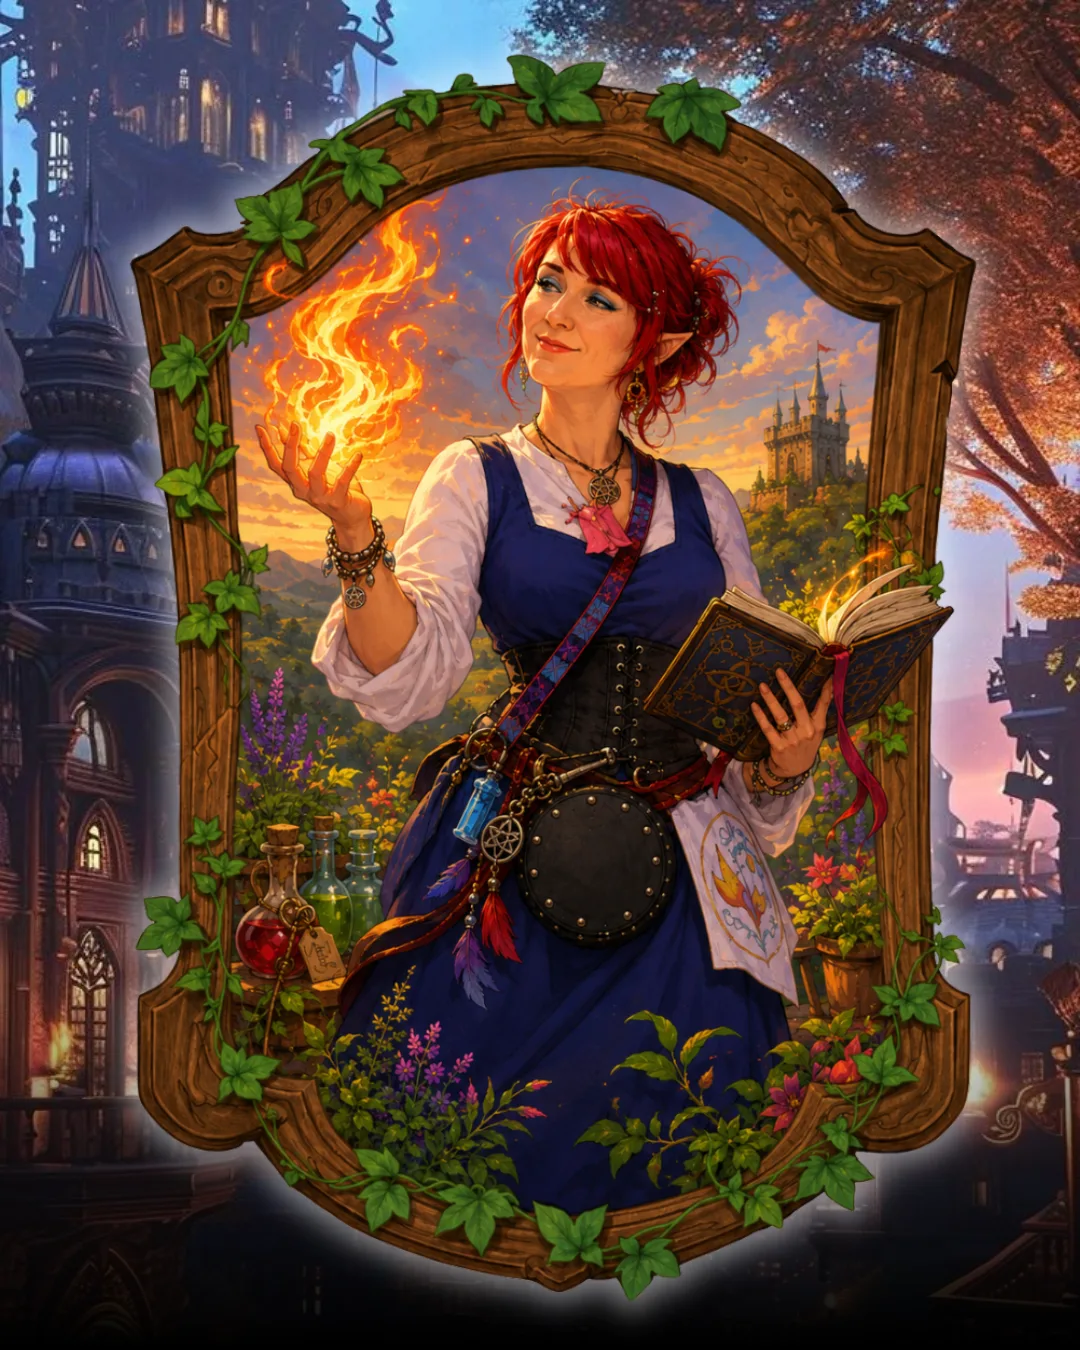
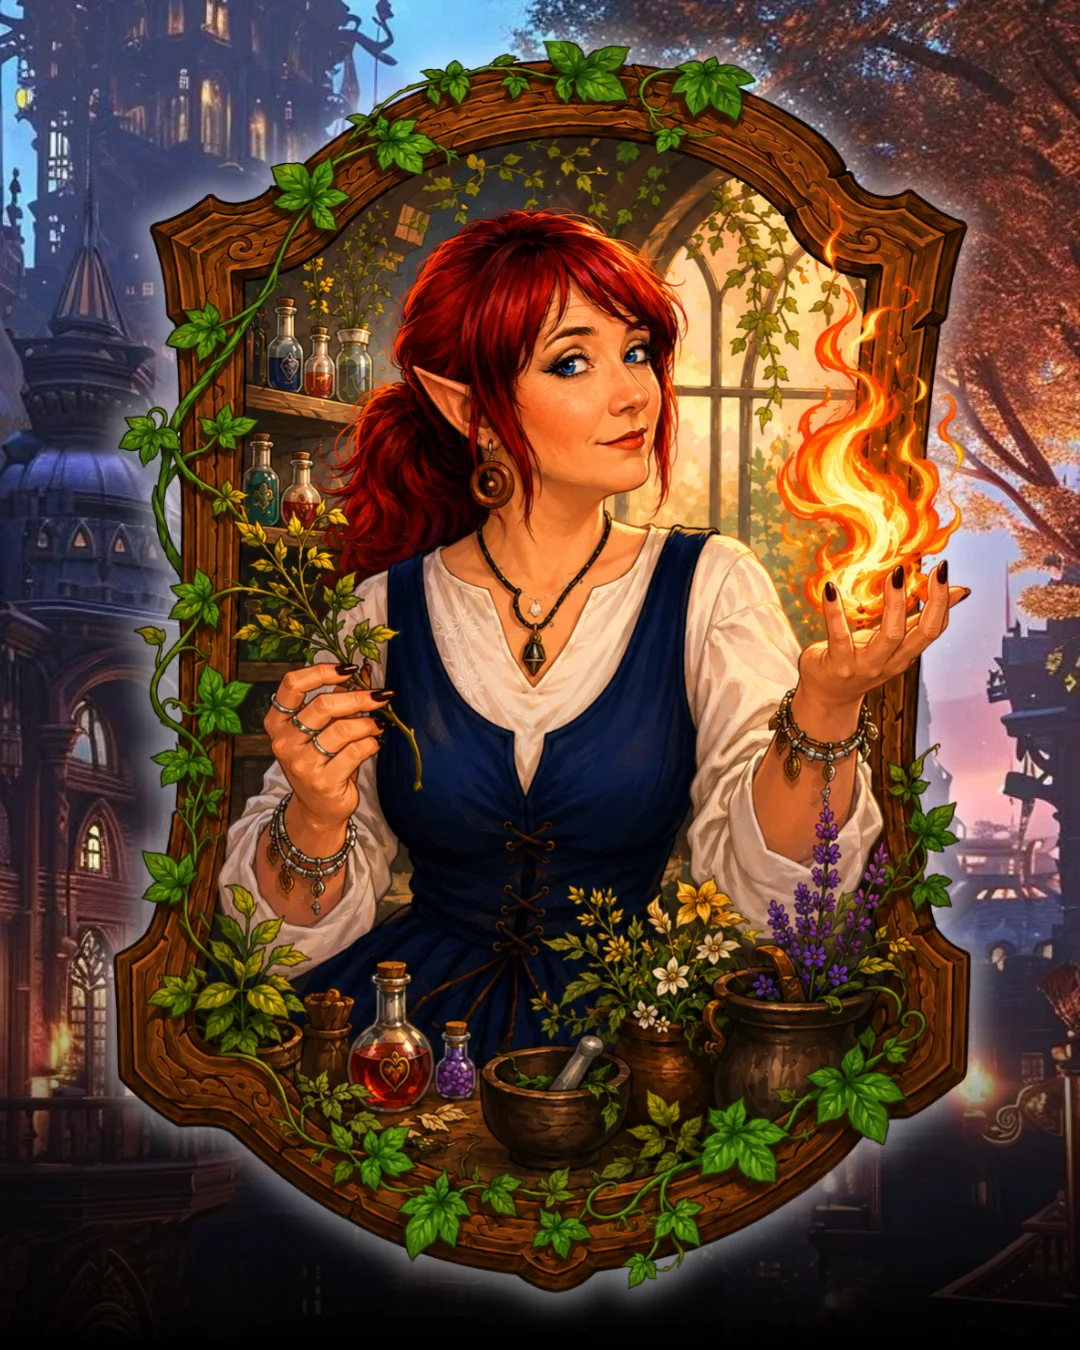
update

diff --git a/index.html b/index.html
@@ -472,6 +472,9 @@
   
   
   
+  
+  
+  
   <section id="section-_recurring-characters" class="panel-section">
     <h3 class="panel-title">
       🎭 Personaggi Ricorrenti
@@ -551,6 +554,9 @@
   
   
   
+  
+  
+  
   <section id="section-_divinity-demon" class="panel-section">
     <h3 class="panel-title">
       ✨ Divinità e Demoni
@@ -588,14 +594,14 @@
     <img src="/rhymil_images/_thumb/demon_arklas.webp?v=b232dd0f" width="110" alt="Arklas" loading="lazy" />
   </a>
 
-  <a href="/rhymil_images/_large/demon_argumos.webp?v=060acaf6" title="Argumos" data-name="Argumos" data-owner="master Lorenzo" data-desc="Demone minore">
-    <span class="thumb-name">Argumos</span>
-    <img src="/rhymil_images/_thumb/demon_argumos.webp?v=d272a52a" width="110" alt="Argumos" loading="lazy" />
+  <a href="/rhymil_images/_large/demon_argumos.webp?v=060acaf6" title="Sir Argumos" data-name="Sir Argumos" data-owner="master Lorenzo" data-desc="Demone minore">
+    <span class="thumb-name">Sir Argumos</span>
+    <img src="/rhymil_images/_thumb/demon_argumos.webp?v=d272a52a" width="110" alt="Sir Argumos" loading="lazy" />
   </a>
 
-  <a href="/rhymil_images/_large/demon_divoratore.webp?v=cdae8a5f" title="Divoratore" data-name="Divoratore" data-desc="Demone minore - il miglio amico di Simon!">
-    <span class="thumb-name">Divoratore</span>
-    <img src="/rhymil_images/_thumb/demon_divoratore.webp?v=333153b2" width="110" alt="Divoratore" loading="lazy" />
+  <a href="/rhymil_images/_large/demon_divoratore.webp?v=cdae8a5f" title="Il Divoratore" data-name="Il Divoratore" data-desc="Demone minore dalla fame pressoché insaziabile">
+    <span class="thumb-name">Il Divoratore</span>
+    <img src="/rhymil_images/_thumb/demon_divoratore.webp?v=333153b2" width="110" alt="Il Divoratore" loading="lazy" />
   </a>
     </div>
   </section>
@@ -767,6 +773,9 @@
   
   
   
+  
+  
+  
   <section id="section-stato-del-popolo-libero" class="panel-section">
     <h3 class="panel-title">
       ✊ Stato del Popolo Libero
@@ -901,6 +910,9 @@
   
   
   
+  
+  
+  
   <section id="section-terre-barbariche" class="panel-section">
     <h3 class="panel-title">
       🏺 Terre Barbariche
@@ -951,7 +963,7 @@
     <img src="/rhymil_images/_thumb/tribu_eiyda.webp?v=644075d2" width="110" alt="Eiyda" loading="lazy" />
   </a>
 
-  <a href="/rhymil_images/_large/tribu_selhea.webp?v=3fa0f363" title="Selhea" data-name="Selhea" data-owner="master Meg" data-quote="Il freddo non accoglie, mette alla prova." data-desc="Campionessa delle Terre Fredde">
+  <a href="/rhymil_images/_large/tribu_selhea.webp?v=3fa0f363" title="Selhea" data-name="Selhea" data-owner="master Meg" data-quote="Ti giudico in silenzio." data-desc="Campionessa delle Terre Fredde">
     <span class="thumb-name">Selhea</span>
     <img src="/rhymil_images/_thumb/tribu_selhea.webp?v=7baaeae5" width="110" alt="Selhea" loading="lazy" />
   </a>
@@ -970,6 +982,9 @@
   </section>
 
           
+  
+  
+  
   
   
   
@@ -1023,6 +1038,11 @@
   <a href="/rhymil_images/_large/chierici_void.webp?v=d1f8c8e7" title="Void" data-name="Void" data-owner="Dario Pavan" data-desc="Persino la Luce ha bisogno del Buio per sconfiggere il Caos">
     <span class="thumb-name">Void</span>
     <img src="/rhymil_images/_thumb/chierici_void.webp?v=6309390f" width="110" alt="Void" loading="lazy" />
+  </a>
+
+  <a href="/rhymil_images/_large/chierici_arken.webp?v=12e3417c" title="Arken Vergan" data-name="Arken Vergan" data-owner="Luca Faccin">
+    <span class="thumb-name">Arken</span>
+    <img src="/rhymil_images/_thumb/chierici_arken.webp?v=908dd50d" width="110" alt="Arken Vergan" loading="lazy" />
   </a>
   <a class="thumb-add" href="https://forms.gle/bpCPzV4x4QBi88eN8" target="_blank" rel="noopener" aria-label="Aggiungi il tuo PG">
     <span class="icon solid fa-user-plus"></span>
@@ -1094,6 +1114,9 @@
   
   
   
+  
+  
+  
   <section id="section-ordine-dei-maghi" class="panel-section">
     <h3 class="panel-title">
       🔮 Ordine dei Maghi
@@ -1129,9 +1152,9 @@
     <img src="/rhymil_images/_thumb/maghi_iris.webp?v=4bba6504" width="110" alt="Iris Himring" loading="lazy" />
   </a>
 
-  <a href="/rhymil_images/_large/maghi_aelyra.webp?v=eb5ab182" title="Aelyra" data-name="Aelyra" data-owner="Silvia Fanio" data-quote="Il potere della Vita, il potere della Morte. Quale grande responsabilità saper usare la magia." data-desc="Maga mezzelfa che crede sia importante proteggere la Vita.">
+  <a href="/rhymil_images/_large/maghi_aelyra.webp?v=a00182ac" title="Aelyra" data-name="Aelyra" data-owner="Silvia Fanio" data-quote="Il potere della Vita, il potere della Morte. Quale grande responsabilità saper usare la magia." data-desc="Maga mezzelfa che crede sia importante proteggere la Vita.">
     <span class="thumb-name">Aelyra</span>
-    <img src="/rhymil_images/_thumb/maghi_aelyra.webp?v=a87f17b3" width="110" alt="Aelyra" loading="lazy" />
+    <img src="/rhymil_images/_thumb/maghi_aelyra.webp?v=cc11984f" width="110" alt="Aelyra" loading="lazy" />
   </a>
 
   <a href="/rhymil_images/_large/maghi_markus.webp?v=fc3401fa" title="Markus Terraginiris" data-name="Markus Terraginiris" data-owner="Marcello Sabbioni " data-quote="La Via è tracciata, ora lanciati!" data-desc="Guerriero arcano che unisce la spada alla magia sulla via della Vita in tutte le sue sfaccettature. Come preservarla e come reciderla">
@@ -1178,6 +1201,9 @@
   </section>
 
           
+  
+  
+  
   
   
   
@@ -1302,6 +1328,9 @@
   
   
   
+  
+  
+  
   <section id="section-ordine-dei-cavalieri" class="panel-section">
     <h3 class="panel-title">
       ⚔️ Ordine dei Cavalieri
@@ -1371,6 +1400,9 @@
   </section>
 
           
+  
+  
+  
   
   
   